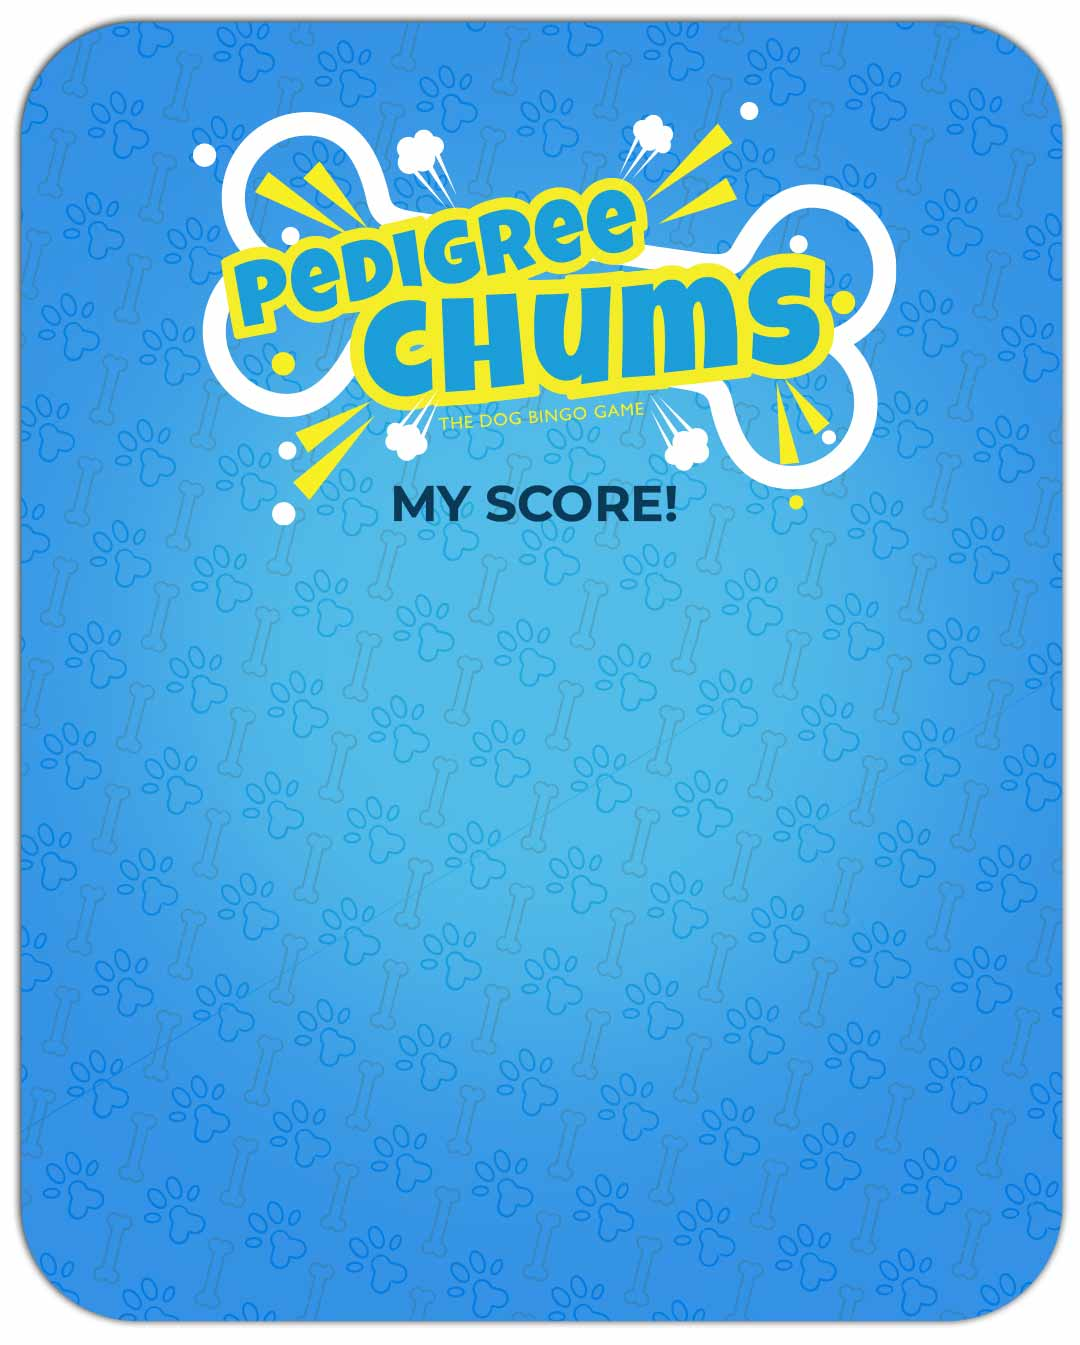
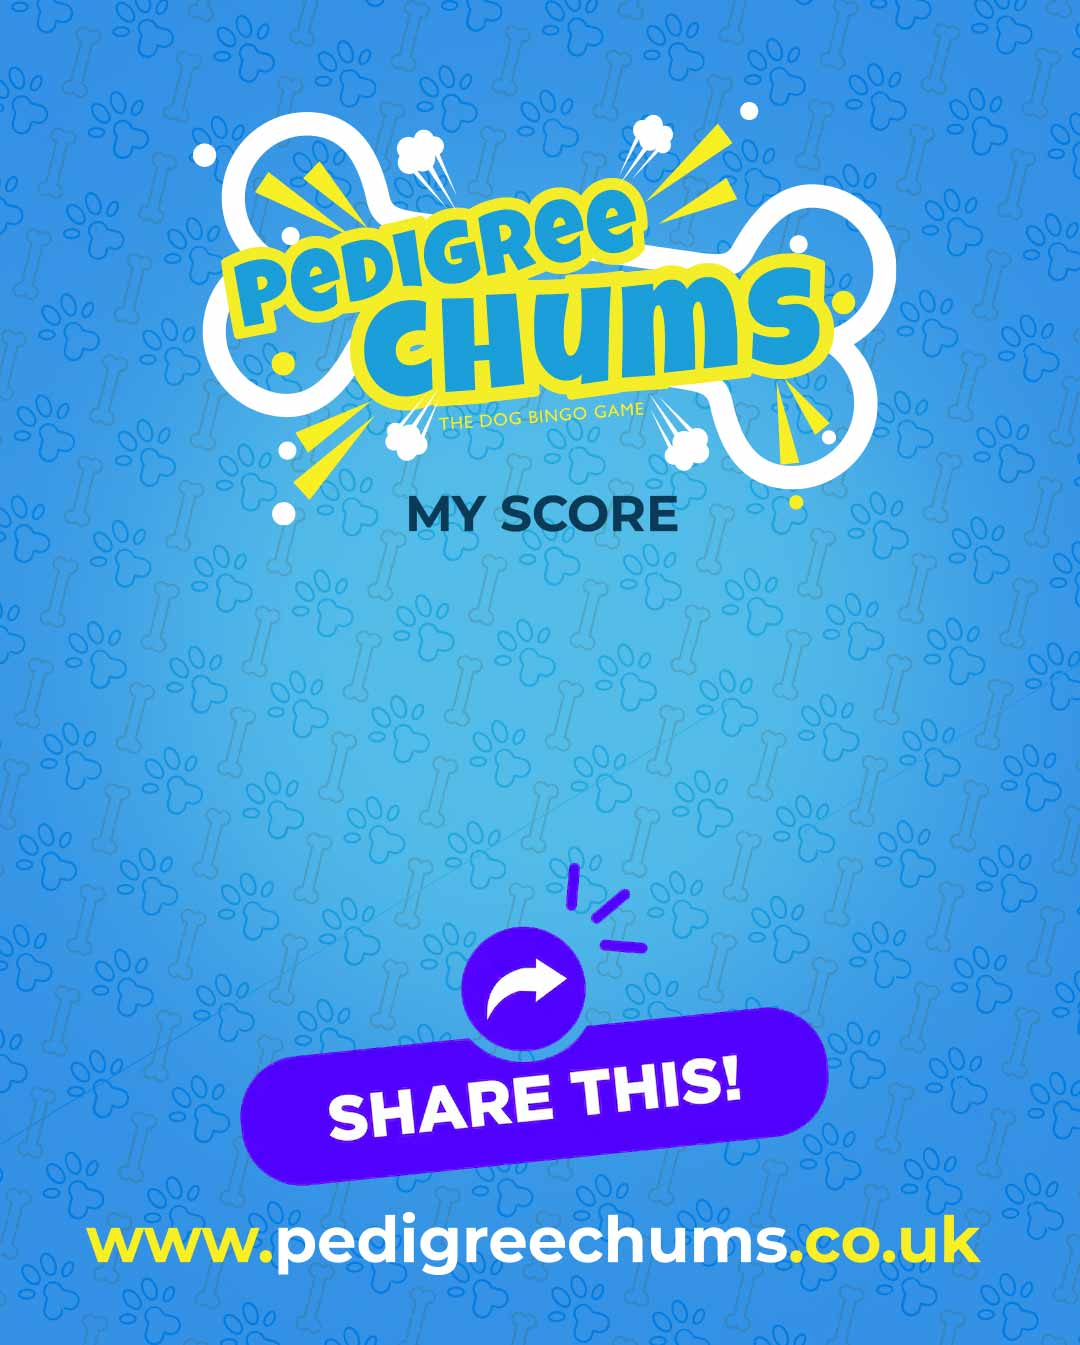
share: the score card posts without its button so the chum rate shows

Changed region(s): [[0.0, 0.0, 1.0, 1.0], [0.3667, 0.3435, 0.6417, 0.4059]]

diff --git a/components/ShareCard/ShareCard.tsx b/components/ShareCard/ShareCard.tsx
@@ -27,9 +27,13 @@ import css from "./ShareCard.module.css";
 const W = 1080;
 const H = 1345; // the artwork's own size
 type Design = "table" | "score";
-const CARD_BG: Record<Design, string> = {
-  table: "/sharescreen-empty.jpg",
-  score: "/myscorecard-empty.jpg",
+// TWO ARTWORKS FOR THE SCORE CARD, and that is deliberate.
+// The one on screen carries the SHARE THIS button, which sits across the band
+// the chum rate panel occupies. The one that gets POSTED has the button removed
+// so the chum rate is visible instead. Same card, different job.
+const CARD_BG: Record<Design, { screen: string; share: string }> = {
+  table: { screen: "/sharescreen-empty.jpg", share: "/sharescreen-empty.jpg" },
+  score: { screen: "/myscorecard-empty.jpg", share: "/myscorecard-empty-nobutton.jpg" },
 };
 // The SCORE card's own measurements, taken the same way as the table's: the
 // filled design diffed against its own empty version.
@@ -154,6 +158,8 @@ export default function ShareCard(props: ShareCardProps) {
   // chum rate panel occupies exactly that band, so there the trigger is a pill
   // below the card instead.
   const [design, setDesign] = useState<Design>("table");
+  // Kept so the share repaint does not have to reload anything.
+  const imgsRef = useRef<{ screen: HTMLImageElement | null; share: HTMLImageElement | null; btn: HTMLImageElement | null }>({ screen: null, share: null, btn: null });
   const [note, setNote] = useState<string | null>(null);
 
   useEffect(() => {
@@ -176,28 +182,36 @@ export default function ShareCard(props: ShareCardProps) {
         // is drawn first and everything else lands on top of it. It is painted
         // once without it too, so a failed image leaves a readable card rather
         // than a blank one.
+        imgsRef.current = { screen: null, share: null, btn: null };
         draw(null, null);
-        // Two images, and the card is redrawn as each arrives rather than
-        // waiting on both: a missing one leaves a readable card instead of a
-        // blank one.
-        let bgImg: HTMLImageElement | null = null;
-        let btnImg: HTMLImageElement | null = null;
-        const bg = new window.Image();
-        bg.onload = () => { bgImg = bg; if (!dead) draw(bgImg, btnImg); };
-        bg.src = CARD_BG[design];
-        const btn = new window.Image();
-        btn.onload = () => { btnImg = btn; if (!dead) draw(bgImg, btnImg); };
-        btn.src = SHARE_BTN;
+        // Each image redraws the card as it arrives rather than the card waiting
+        // on all of them: a missing one leaves something readable instead of a
+        // blank rectangle.
+        const load = (src: string, key: "screen" | "share" | "btn") => {
+          const im = new window.Image();
+          im.onload = () => {
+            imgsRef.current[key] = im;
+            if (!dead) draw(imgsRef.current.screen, imgsRef.current.btn);
+          };
+          im.src = src;
+        };
+        load(CARD_BG[design].screen, "screen");
+        // Only fetched when it differs, so the table card does not pull the same
+        // file twice.
+        if (CARD_BG[design].share !== CARD_BG[design].screen) load(CARD_BG[design].share, "share");
+        else imgsRef.current.share = null;
+        load(SHARE_BTN, "btn");
       });
     return () => { dead = true; };
     // eslint-disable-next-line react-hooks/exhaustive-deps
   }, [score, rate, chums, level, design, topChum?.image]);
 
-  function draw(bg: HTMLImageElement | null, btn: HTMLImageElement | null) {
-    const canvas = canvasRef.current;
-    if (!canvas) return;
-    const ctx = canvas.getContext("2d");
-    if (!ctx) return;
+  /**
+   * forShare paints the version that gets POSTED rather than the one on screen.
+   * For the score card that is a different background and a different set of
+   * pieces: no button, and the chum rate panel drawn in the space it frees.
+   */
+  function paint(ctx: CanvasRenderingContext2D, bg: HTMLImageElement | null, btn: HTMLImageElement | null, forShare: boolean) {
     const DISP = "Luckiest Guy, system-ui, sans-serif";
     const BODY = "Montserrat, system-ui, sans-serif";
 
@@ -209,8 +223,8 @@ export default function ShareCard(props: ShareCardProps) {
     }
 
     if (design === "score") {
-      // THE SCORE CARD. Its own layout, and no share button drawn into it: the
-      // chum rate panel sits across the band the button would need.
+      // THE SCORE CARD. The chum rate panel is drawn only on the posted version:
+      // on screen the artwork's own SHARE THIS button occupies that band.
       ctx.textAlign = "center";
       ctx.textBaseline = "alphabetic";
       const scoreTxt = score.toLocaleString();
@@ -228,17 +242,19 @@ export default function ShareCard(props: ShareCardProps) {
       ctx.font = `700 ${lls}px ${BODY}`;
       ctx.fillText(lvl, 540, SC.levelName);
 
-      ctx.fillStyle = BLUE_DEEP;
-      roundRect(ctx, SC.panel.x, SC.panel.y, SC.panel.w, SC.panel.h, SC.panel.r);
-      ctx.fill();
-      ctx.fillStyle = BLUE_SKY;
-      ctx.font = `700 36px ${BODY}`;
-      ctx.fillText("CHUM RATE", 540, SC.panelLabel);
-      ctx.fillStyle = CREAM;
-      const rateTxt = `${rate}%`;
-      const rs = fitText(ctx, rateTxt, 440, 112, DISP);
-      ctx.font = `${rs}px ${DISP}`;
-      ctx.fillText(rateTxt, 540, SC.panelValue);
+      if (forShare) {
+        ctx.fillStyle = BLUE_DEEP;
+        roundRect(ctx, SC.panel.x, SC.panel.y, SC.panel.w, SC.panel.h, SC.panel.r);
+        ctx.fill();
+        ctx.fillStyle = BLUE_SKY;
+        ctx.font = `700 36px ${BODY}`;
+        ctx.fillText("CHUM RATE", 540, SC.panelLabel);
+        ctx.fillStyle = CREAM;
+        const rateTxt = `${rate}%`;
+        const rs = fitText(ctx, rateTxt, 440, 112, DISP);
+        ctx.font = `${rs}px ${DISP}`;
+        ctx.fillText(rateTxt, 540, SC.panelValue);
+      }
       return;
     }
 
@@ -271,13 +287,39 @@ export default function ShareCard(props: ShareCardProps) {
     ctx.textAlign = "center";
   }
 
+  function draw(bg: HTMLImageElement | null, btn: HTMLImageElement | null) {
+    const canvas = canvasRef.current;
+    if (!canvas) return;
+    const ctx = canvas.getContext("2d");
+    if (!ctx) return;
+    paint(ctx, bg, btn, false);
+  }
+
+  /**
+   * The posted card, painted off screen. It is a separate canvas rather than a
+   * repaint of the visible one, so the card the player is looking at never
+   * flickers into a different state while the share sheet opens.
+   */
+  function shareCanvas(): HTMLCanvasElement | null {
+    const src = canvasRef.current;
+    if (!src) return null;
+    const off = document.createElement("canvas");
+    off.width = W;
+    off.height = H;
+    const ctx = off.getContext("2d");
+    if (!ctx) return null;
+    const { screen: scr, share: shr, btn } = imgsRef.current;
+    paint(ctx, shr ?? scr, btn, true);
+    return off;
+  }
+
   async function shareWith(caption: string) {
     if (busy) return;
     setBusy(true);
     setNote(null);
     const text = `${caption}\n\n${TAG}`;
     try {
-      const canvas = canvasRef.current;
+      const canvas = shareCanvas();
       const blob = canvas
         ? await new Promise<Blob | null>((res) => canvas.toBlob((b) => res(b), "image/png"))
         : null;
@@ -346,23 +388,23 @@ export default function ShareCard(props: ShareCardProps) {
           {/* The button is drawn INTO the card, because the card is what gets
               posted. This takes the tap, sized as a percentage of the canvas so
               it tracks the artwork at any display size. */}
-          {design === "table" && (
-            <button
-              type="button"
-              className={css.shareThis}
-              onClick={() => setPicking((o) => !o)}
-              aria-expanded={picking}
-              aria-label="Share this"
-              title="Share this"
-            />
-          )}
+          {/* Both cards now carry the SHARE THIS button in their artwork, at the
+              same place, so one overlay serves both. */}
+          <button
+            type="button"
+            className={css.shareThis}
+            onClick={() => setPicking((o) => !o)}
+            aria-expanded={picking}
+            aria-label="Share this"
+            title="Share this"
+          />
 
           {picking && (
             <>
               {/* A tap anywhere else closes it, the way the name generator's
                   popout does. */}
               <div className={css.backdrop} onClick={() => setPicking(false)} />
-              <div role="menu" className={`${css.menu}${design === "score" ? " " + css.menuLow : ""}`}>
+              <div role="menu" className={css.menu}>
                 <p className={css.menuTitle}>Pick a caption to share</p>
                 <div className={css.menuScroll}>
                   {captionsFor(rate).map((fn, i) => (
@@ -384,19 +426,6 @@ export default function ShareCard(props: ShareCardProps) {
             </>
           )}
         </div>
-
-        {/* The score card carries no button in the picture, so it gets a real
-            one here. Same handler and same popout, just a different anchor. */}
-        {design === "score" && (
-          <button
-            type="button"
-            className={css.sharePill}
-            onClick={() => setPicking((o) => !o)}
-            aria-expanded={picking}
-          >
-            Share this
-          </button>
-        )}
 
         {note && <p className={css.note}>{note}</p>}
       </div>

diff --git a/components/ShareCard/ShareCard.module.css b/components/ShareCard/ShareCard.module.css
@@ -107,18 +107,6 @@
   border-color: var(--navy, #0a3a57);
   color: var(--navy, #0a3a57);
 }
-/* The score card has no button drawn into it, so it gets a real one. */
-.sharePill {
-  font-family: var(--font-display, "Luckiest Guy", system-ui), sans-serif;
-  font-size: 1.4rem;
-  letter-spacing: 0.03em;
-  color: var(--navy, #0a3a57);
-  background: var(--yellow, #ffd23e);
-  border: 5px solid var(--navy, #0a3a57);
-  border-radius: 999px;
-  padding: 10px 34px;
-  cursor: pointer;
-}
 /* THE CAPTION POPOUT, copied from the name generator's podium share so the two
    behave the same way: a navy panel above the button with a tail pointing down
    at it, and a backdrop that closes it on any tap outside.
@@ -142,11 +130,6 @@
   padding: 12px 10px 10px;
   text-align: left;
   line-height: normal;
-}
-/* The score card's trigger sits BELOW the card, so its popout drops to the foot
-   of the card rather than floating halfway up it. */
-.menuLow {
-  bottom: 8px;
 }
 .menuTitle {
   margin: 2px 8px 10px;
